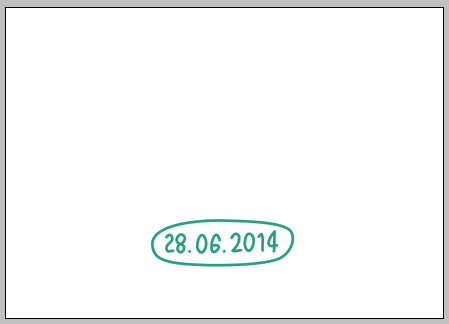
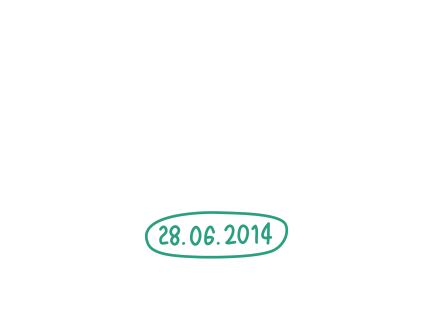
loads of changes

Changed region(s): [[0.0, 0.0, 1.0, 1.0], [0.3272, 0.6677, 0.6842, 0.8419]]

diff --git a/index2.html b/index2.html
@@ -28,14 +28,14 @@
 	    <!-- Email sign-up modal display -->
 	    <script type="text/javascript">
 		    $(window).load(function() {
-		        if($.cookie('visited') != null && $.cookie('visited') != "")
+		        if($.cookie('emailsubmitted') != null && $.cookie('emailsubmitted') != "")
 		        {
 		            $("div#myModal.modal").hide();
 		        }
 		        else
 		        {
 		            $('#myModal').modal('show');
-		            $.cookie('visited', 'yes');
+		            $.cookie('emailsubmitted', 'yes');
 		        }
 		    });
 			</script>
@@ -44,9 +44,9 @@
 	    <script type="text/javascript">
 	      function submitForm(){
 	          document.getElementById('theForm').submit();
-	          $.cookie('visited', 'y', { expires: 365, path: '/' });
+	          $.cookie('emailsubmitted', 'yes', { expires: 365, path: '/' });
 	          document.getElementById('successful-submission').innerHTML="Submitted";
-	      }
+	      };
 	    </script>
 	    <!-- /weddingemail google apps script validation -->
 	</head>
@@ -73,6 +73,8 @@
 			        <li class="active"><a href="#">Home</a></li> <!-- TODO: Change link to ../ in production -->
 			        <li><a href="savethedate.html">Save the date</a></li>
 			        <li><a href="invitation.html">Invitation</a></li>
+			        <li><a href="programme.html">Programme</a></li>
+			        <li><a href="weddinglist.html">Wedding List</a></li>
 			      </ul>
 			      <ul class="nav navbar-nav navbar-right">
 			        <li>
@@ -81,16 +83,13 @@
 			      </ul>
 			    </div><!-- /.navbar-collapse -->
 			  </div><!-- /.container-fluid -->
-			</nav>
+			</nav><!-- /.navbar -->
 
-			<!-- <h1>The Alexes&rsquo; Wedding</h1> -->
-			<h1>28<sup>th</sup> June 2014</h1>
-			<h1 id="test-uuid"></h1>
+			<img src="images/homepage_date.png" class="homepage-date">
 		</div> <!-- /container -->
 
 		<!-- Script links -->
 		<script src="js/bootstrap.js"></script>
-		<script src="form.validation.js"></script>
 		<!-- /Script links -->
 
 		<!-- Modal -->

diff --git a/invitation.html b/invitation.html
@@ -8,7 +8,7 @@
     <meta name="keywords" content="Alex, Jones, Conlin-Oakley, wedding, marriage, cambridge, June, 2014, 28, 28th, Queens, Queens', Queens College">
     <meta name="author" content="Alex Conlin-Oakley and Alex Jones">
     
-    <title>The Alexes’ Wedding &middot; Save the date</title>
+    <title>The Alexes’ Wedding &middot; Invitation</title>
     <link rel="stylesheet" href="css/bootstrap.css" type="text/css"/>
     
     <!-- Google Analytics -->
@@ -45,7 +45,9 @@
       <ul class="nav navbar-nav">
         <li><a href="index2.html">Home</a></li> <!-- TODO: Change link to ../ in production -->
         <li><a href="savethedate.html">Save the date</a></li> <!-- TODO: Change link -->
-        <li class="active"><a href="#">Invitation</a></li> 
+        <li class="active"><a href="#">Invitation</a></li>
+        <li><a href="programme.html">Programme</a></li>
+        <li><a href="weddinglist.html">Wedding List</a></li>
       </ul>
       <ul class="nav navbar-nav navbar-right">
         <li>
@@ -56,9 +58,9 @@
   </div><!-- /.container-fluid -->
 </nav>
 
-<img id="invitation-inside" src="images/ALEX_INVITE_FRONT_FINALlores.png"><p>
-<img id="invitation-inside" src="images/ALEX_INVITE_INSIDE_FINALlores.jpg"><p>
-<img id="invitation-inside" src="images/ALEX_INVITE_BACK_FINALlores.png"><p>
+<img class="invitation" src="images/ALEX_INVITE_FRONT_FINALlores.png"><p>
+<img class="invitation" src="images/ALEX_INVITE_INSIDE_FINALlores.jpg"><p>
+<img class="invitation" src="images/ALEX_INVITE_BACK_FINALlores.png"><p>
 
 </div> <!-- /container -->
 

diff --git a/css/bootstrap.css b/css/bootstrap.css
@@ -39,9 +39,16 @@ label.error {
 }
 #other-page-body {
   background-color: #fff;
+  background: url('../images/aanda_spot_background_2.png');
+  background-size: 600px 600px;
 }
 #navbar-brand {
   padding: 5px 5px;
+}
+.plain-hero {
+  background-color: #FFFFFF;
+  padding: 10px 20px;
+  padding-bottom: 200px;
 }
 .navbar-brand,
 .navbar-nav li a {
@@ -53,6 +60,23 @@ label.error {
 #save-the-date {
   width: 100%;
   max-width: 700px;
+  display: block;
+  margin-left: auto;
+  margin-right: auto;
+}
+.invitation {
+  width: auto;
+  max-width: 448px;
+  display: block;
+  margin-left: auto;
+  margin-right: auto;
+  margin-bottom: 10px;
+}
+.homepage-date {
+  display: block;
+  margin-left: auto;
+  margin-right: auto;
+  margin-top: 115px;
 }
 .input-group {
   margin-bottom: 15px;

diff --git a/savethedate.html b/savethedate.html
@@ -44,8 +44,10 @@
     <div class="collapse navbar-collapse" id="bs-example-navbar-collapse-1">
       <ul class="nav navbar-nav">
         <li><a href="index2.html">Home</a></li> <!-- TODO: Change link to ../ in production -->
-        <li class="active"><a href="#">Save the date</a></li> <!-- TODO: Change link -->
-        <li><a href="invitation.html">Invitation</a></li> <!-- TODO: Change link -->
+        <li class="active"><a href="#">Save the date</a></li>
+        <li><a href="invitation.html">Invitation</a></li>
+        <li><a href="programme.html">Programme</a></li>
+        <li><a href="weddinglist.html">Wedding List</a></li>
       </ul>
       <ul class="nav navbar-nav navbar-right">
         <li>
